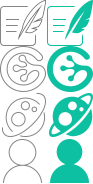
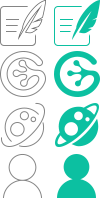
项目完善： 添加loading模块 添加header模块 添加http拦截器 代码优化

diff --git a/src/components/blocks/footNav.vue b/src/components/blocks/footNav.vue
@@ -48,35 +48,36 @@ export default {
             width: rem(46px);
             height: rem(46px);
             background-image: url(../../images/foot-nav.png);
-            background-size: rem(93px) rem(184px);
+            background-size: rem(100px) rem(199px);
+            background-repeat: no-repeat;
             margin: 0 auto rem(5px);
         }
         &:nth-child(1) span{
             background-position: 0 0;
         }
         &:nth-child(2) span{
-            background-position: 0 -1 *rem(46px);
+            background-position: 0 -1*rem(51px);
         }
         &:nth-child(3) span{
-            background-position: 0 -2 *rem(46px);
+            background-position: 0 -2*rem(51px);
         }
         &:nth-child(4) span{
-            background-position: 0 -3 *rem(46px);
+            background-position: 0 -3*rem(51px);
         }
         &.router-link-active {
             color: #0cc0a1;
         }
         &:nth-child(1).router-link-active span{
-            background-position: - rem(46px) 0;
+            background-position: rem(-54px) 0;
         }
         &:nth-child(2).router-link-active span{
-            background-position: - rem(46px) -1 *rem(46px);
+            background-position: rem(-54px) -1*rem(51px);
         }
         &:nth-child(3).router-link-active span{
-            background-position: - rem(47px) -2 *rem(46px);
+            background-position: rem(-54px) -2*rem(51px);
         }
         &:nth-child(4).router-link-active span{
-            background-position: - rem(46px) -3 *rem(46px);
+            background-position: rem(-54px) -3*rem(51px);
         }
     }
 }

diff --git a/src/main.js b/src/main.js
@@ -5,13 +5,22 @@ import VueResource from 'vue-resource'
 import app from './app'
 import router from './router'
 import './config/rem'
+import loading from './components/blocks/loading'
 
 Vue.config.productionTip = false
 
 // 注入VueResource到vue中
 Vue.use(VueResource)
-// 配置请求，解决请求获取不到参数问题
+// 配置编码为application/json的请求，解决请求获取不到参数问题
 Vue.http.options.emulateJSON = true
+// http拦截器，可以在这里做一些拦截操作（比如是否登录，token是否过期等等）
+Vue.http.interceptors.push((req, next) => {
+	loading.showloading = true
+    next((res) => {
+		// loading.show = false
+		return res
+	})
+})
 
 /* eslint-disable no-new */
 new Vue({

diff --git a/src/components/home.vue b/src/components/home.vue
@@ -92,11 +92,13 @@
         <!-- school-list-cell / -->
     </div>
     <foot-nav></foot-nav>
+    <loading></loading>
 </div>
 </template>
 
 <script>
 import {swiper, swiperSlide} from 'vue-awesome-swiper'
+import loading from './blocks/loading'
 import footNav from './blocks/footNav'
 import stars from './blocks/stars'
 export default {
@@ -138,12 +140,13 @@ export default {
             pageSize: 20
             }
         }).then((response) => {
-            console.log(response.body)
+            // console.log(response.body)
         })
     },
     components: {
         swiper,
         swiperSlide,
+        loading,
         stars,
         footNav
     }

diff --git a/src/components/blocks/loading.vue b/src/components/blocks/loading.vue
@@ -1,0 +1,32 @@
+<template>
+<div class="loading-overlay">
+    <div class="sk-three-bounce">
+        <div class="sk-child sk-bounce1"></div>
+        <div class="sk-child sk-bounce2"></div>
+        <div class="sk-child sk-bounce3"></div>
+    </div>
+</div>
+</template>
+
+<script>
+export default {
+    name: 'loading',
+    data () {
+        return {
+            showloading: false
+        }
+    }
+}
+</script>
+
+<style lang="scss" scoped>
+@import '../../style/mixin';
+.loading-overlay {
+    position: fixed;
+    top: 0;
+    right: 0;
+    bottom: 0;
+    left: 0;
+    background-color: rgba(0, 0, 0, .5);
+}
+</style>

diff --git a/src/style/mixin.scss b/src/style/mixin.scss
@@ -1,12 +1,14 @@
 //变量的值可以根据自己需求定义
 $browser-default-font-size: 40px !default;
+$border-width: 1px !default;
+$border-style: solid !default;
 $border-color: #e2e2e2 !default;
 
 @function rem($px) {
 	@return $px / $browser-default-font-size * 1rem;
 }
-@function border($px, $color:$border-color) {
-    @return rem($px) solid $color;
+@function border($px:$border-width, $color:$border-color, $style:$border-style) {
+    @return rem($px) $style $color;
 }
 @mixin lineClamp($n) {  
     overflow:hidden; 

diff --git a/src/components/city.vue b/src/components/city.vue
@@ -1,19 +1,19 @@
 <template>
-  <div class="city-cell">
-    城市
-  </div>
+<div class="city-cell">
+城市
+</div>
 </template>
 
 <script>
 export default {
-  name: 'city',
-  data () {
-    return {
-    }
-  }
+	name: 'city',
+	data () {
+		return {
+		}
+	}
 }
 </script>
 
-<!-- Add "scoped" attribute to limit CSS to this component only -->
 <style lang="scss" scoped>
+@import '../style/mixin'
 </style>

diff --git a/src/components/blocks/header.vue b/src/components/blocks/header.vue
@@ -1,0 +1,26 @@
+<template>
+<div class="header display-flex">
+    <span class="back"></span>
+    <slot></slot>
+    <span class="search"></span>
+    <span class="collect"></span>
+</div>
+</template>
+
+<script>
+export default {
+    name: 'header',
+    data () {
+        return {
+
+        }
+    }
+}
+</script>
+
+<style lang="scss" scoped>
+@import '../../style/mixin';
+.header {
+    
+}
+</style>

diff --git a/config/index.js b/config/index.js
@@ -7,7 +7,7 @@ module.exports = {
     index: path.resolve(__dirname, '../dist/index.html'),
     assetsRoot: path.resolve(__dirname, '../dist'),
     assetsSubDirectory: 'static',
-    assetsPublicPath: '/',
+    assetsPublicPath: '/dist/',
     productionSourceMap: true,
     // Gzip off by default as many popular static hosts such as
     // Surge or Netlify already gzip all static assets for you.

diff --git a/index.html b/index.html
@@ -9,7 +9,7 @@
 		<meta name="full-screen" content="yes">
 		<meta name="x5-fullscreen" content="true">
 		<title>呱呱学车</title>
-		<link rel="shortcut icon" type="image/x-icon" href="/favicon.ico">
+		<link rel="shortcut icon" type="image/x-icon" href="/static/favicon.ico">
 	</head>
 	<body ontouchstart="">
 		<div id="app"></div>

diff --git a/README.md b/README.md
@@ -44,6 +44,14 @@ vue2 + vuex + vue-router + vue-resource + webpack + ES6/7 + sass(rem) + flex
     
     # // 配置请求，解决请求获取不到参数问题
     Vue.http.options.emulateJSON = true
+    # // http拦截器，可以在这里做一些拦截操作（比如是否登录，token是否过期等等）
+    Vue.http.interceptors.push((req, next) => {
+        # // 请求发送前的处理逻辑
+        next((res) => {
+            # // 请求发送后的处理逻辑
+            # // 根据请求的状态，response参数会返回给successCallback或errorCallback
+        })
+    })
 
     # // 在.vue文件中get请求数据
     this.$http.get('/someUrl').then(response => {
